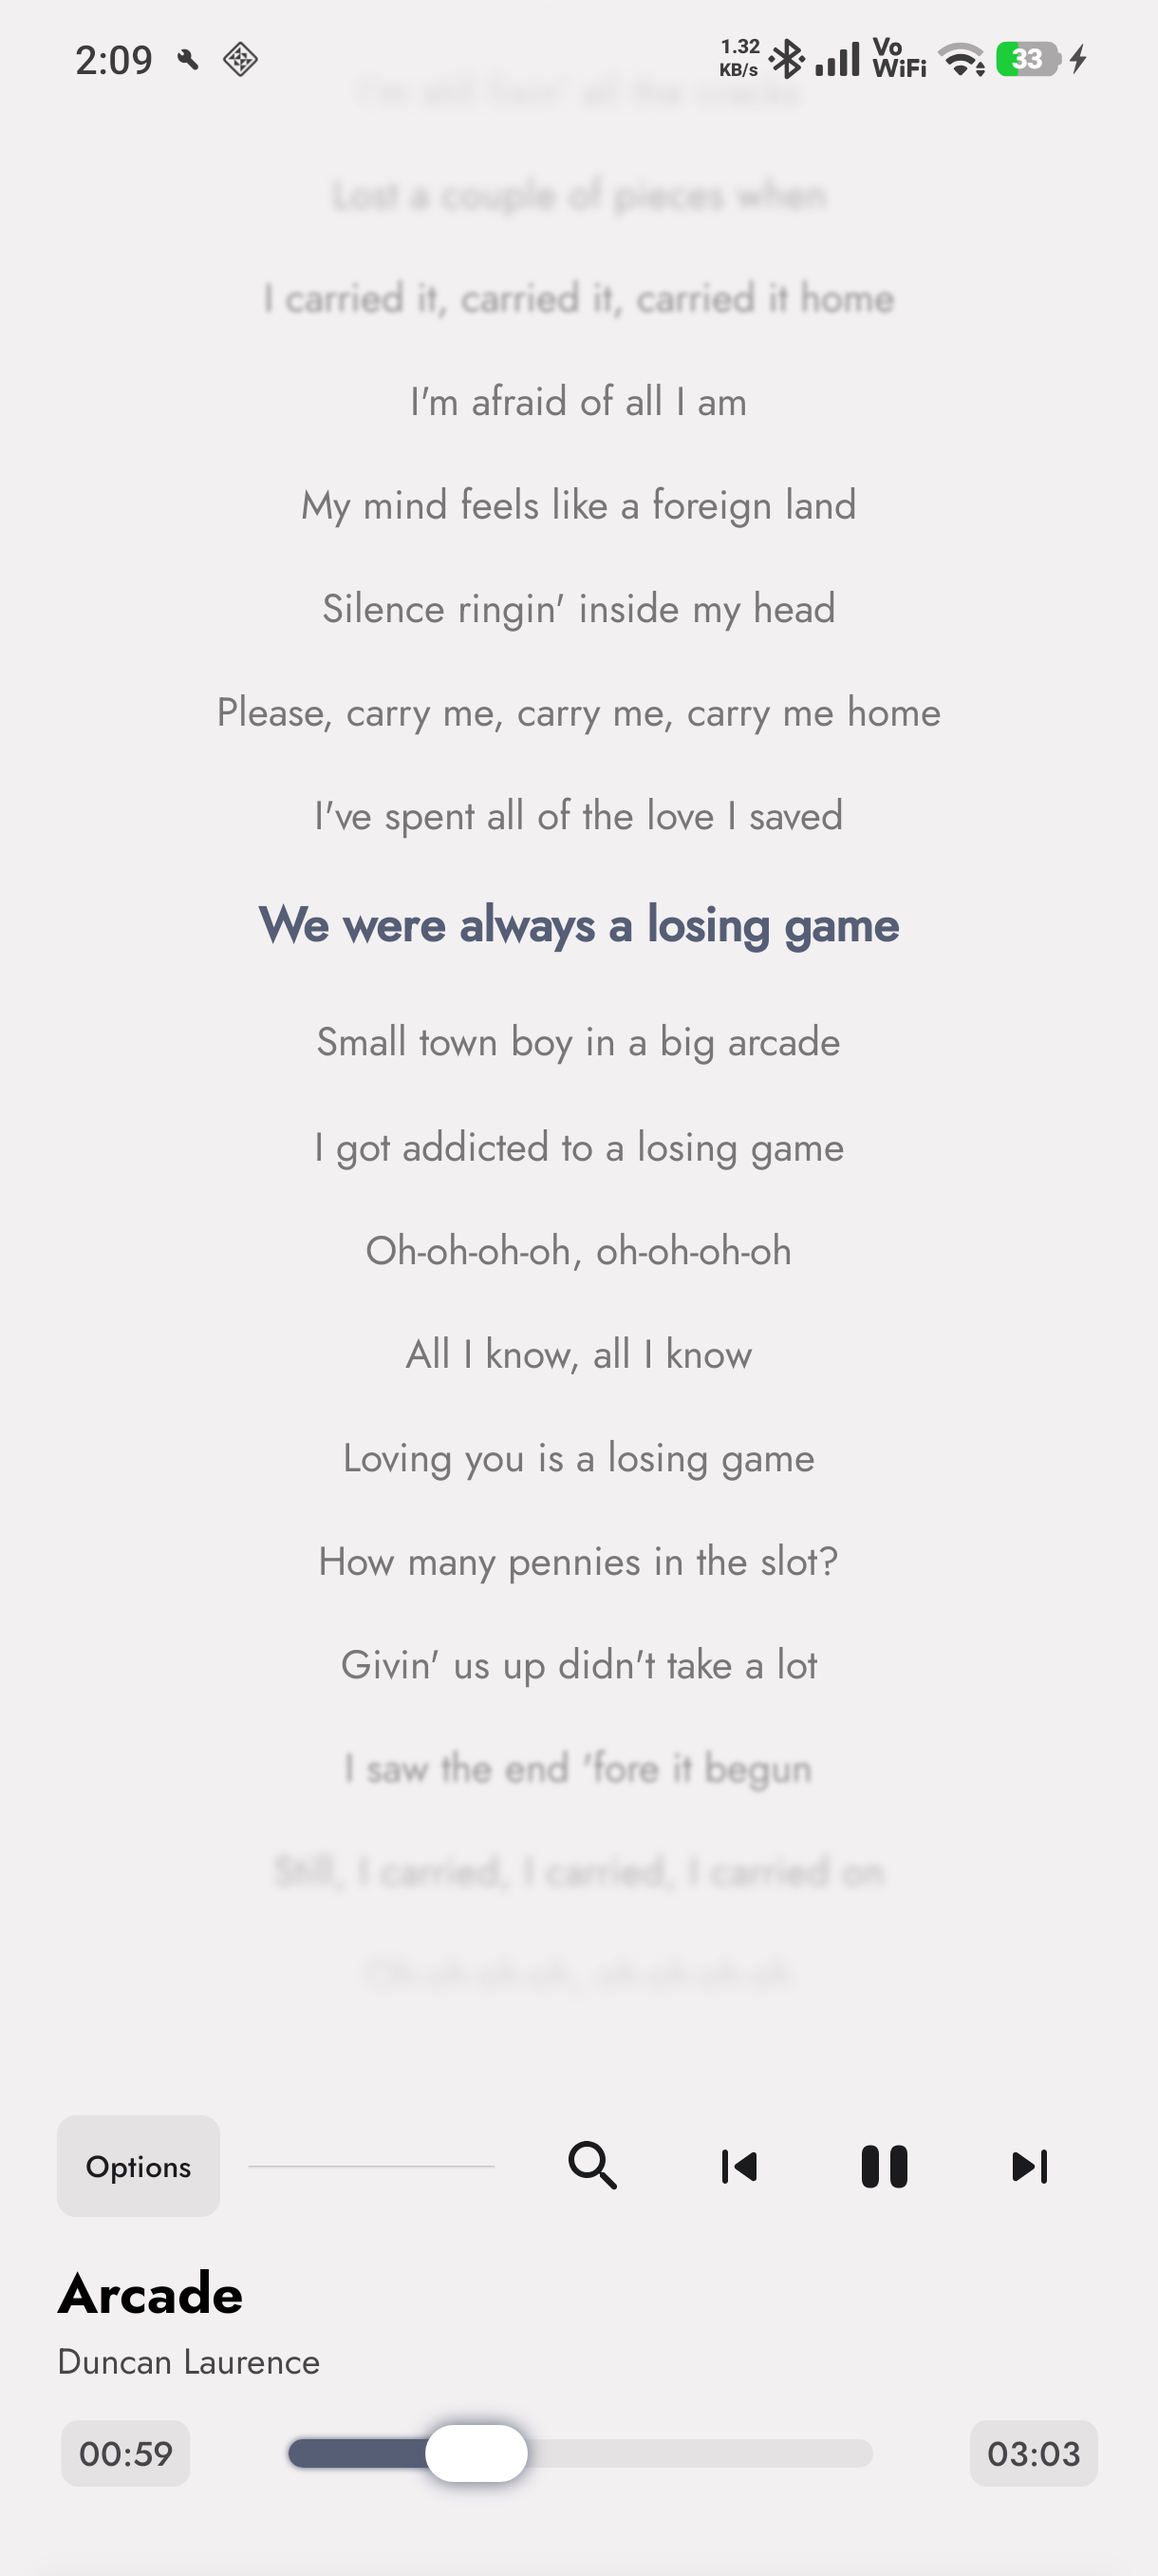
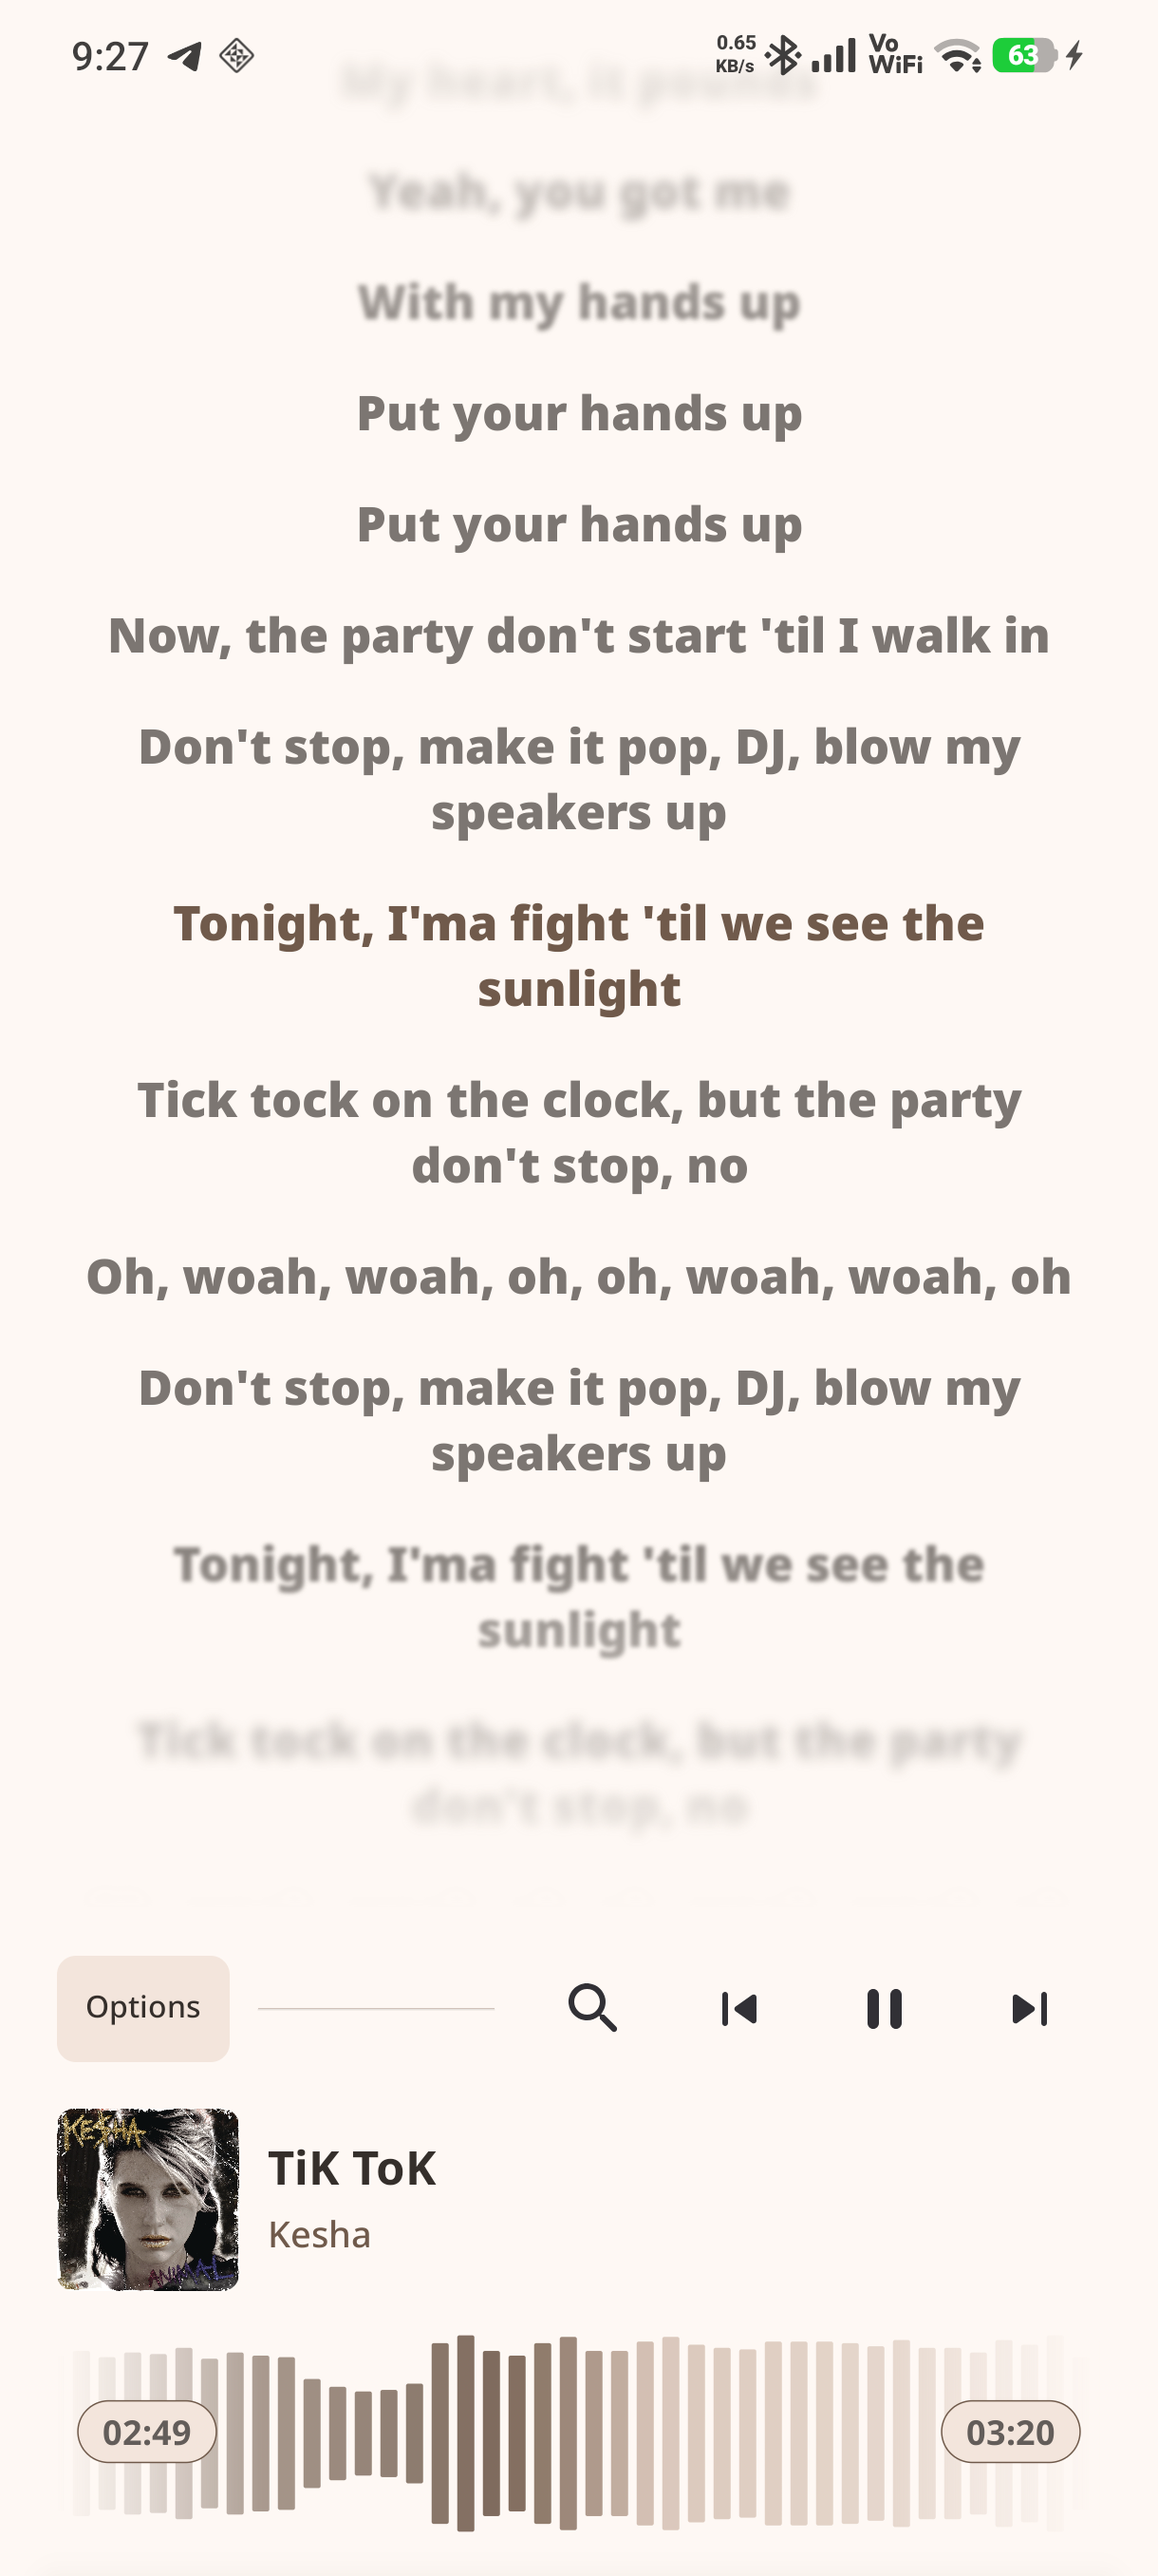
update: lyrics panel UI

diff --git a/music/src/main/java/app/simple/felicity/ui/panels/Lyrics.kt b/music/src/main/java/app/simple/felicity/ui/panels/Lyrics.kt
@@ -22,6 +22,7 @@ import app.simple.felicity.dialogs.lyrics.LyricsMenu
 import app.simple.felicity.dialogs.lyrics.LyricsMenu.Companion.showLyricsMenu
 import app.simple.felicity.engine.managers.MediaPlaybackManager
 import app.simple.felicity.extensions.fragments.MediaFragment
+import app.simple.felicity.glide.util.AudioCoverUtils.loadArtCoverWithPayload
 import app.simple.felicity.preferences.LyricsPreferences
 import app.simple.felicity.repository.constants.MediaConstants
 import app.simple.felicity.repository.models.Audio
@@ -227,8 +228,9 @@ class Lyrics : MediaFragment(), AddLyrics.Companion.OnLyricsCreatedListener {
     private fun updateState() {
         val audio = MediaPlaybackManager.getCurrentSong() ?: return
         currentAudioPath = audio.uri
-        binding.name.text = audio.title
-        binding.artist.text = audio.getArtists()
+        binding.title.text = audio.title
+        binding.artists.text = audio.getArtists()
+        binding.cover.loadArtCoverWithPayload(audio)
         binding.lrc.setDuration(audio.duration)
         binding.seekbar.setDuration(audio.duration)
         binding.seekbar.setProgress(MediaPlaybackManager.getSeekPosition(), animate = false)
@@ -301,8 +303,9 @@ class Lyrics : MediaFragment(), AddLyrics.Companion.OnLyricsCreatedListener {
         if (!isSameSong) {
             lyricsViewModel.loadLrcData()
             val forward = MediaPlaybackManager.lastNavigationDirection
-            binding.name.setTextWithEffect(audio.title ?: getString(R.string.unknown), forward)
-            binding.artist.setTextWithEffect(audio.getArtists(), forward, 50L)
+            binding.title.setTextWithEffect(audio.title ?: getString(R.string.unknown), forward)
+            binding.artists.setTextWithEffect(audio.getArtists(), forward, 50L)
+            binding.cover.loadArtCoverWithPayload(audio)
             binding.lrc.setDuration(audio.duration)
             binding.seekbar.setDurationWithReset(audio.duration)
         }
